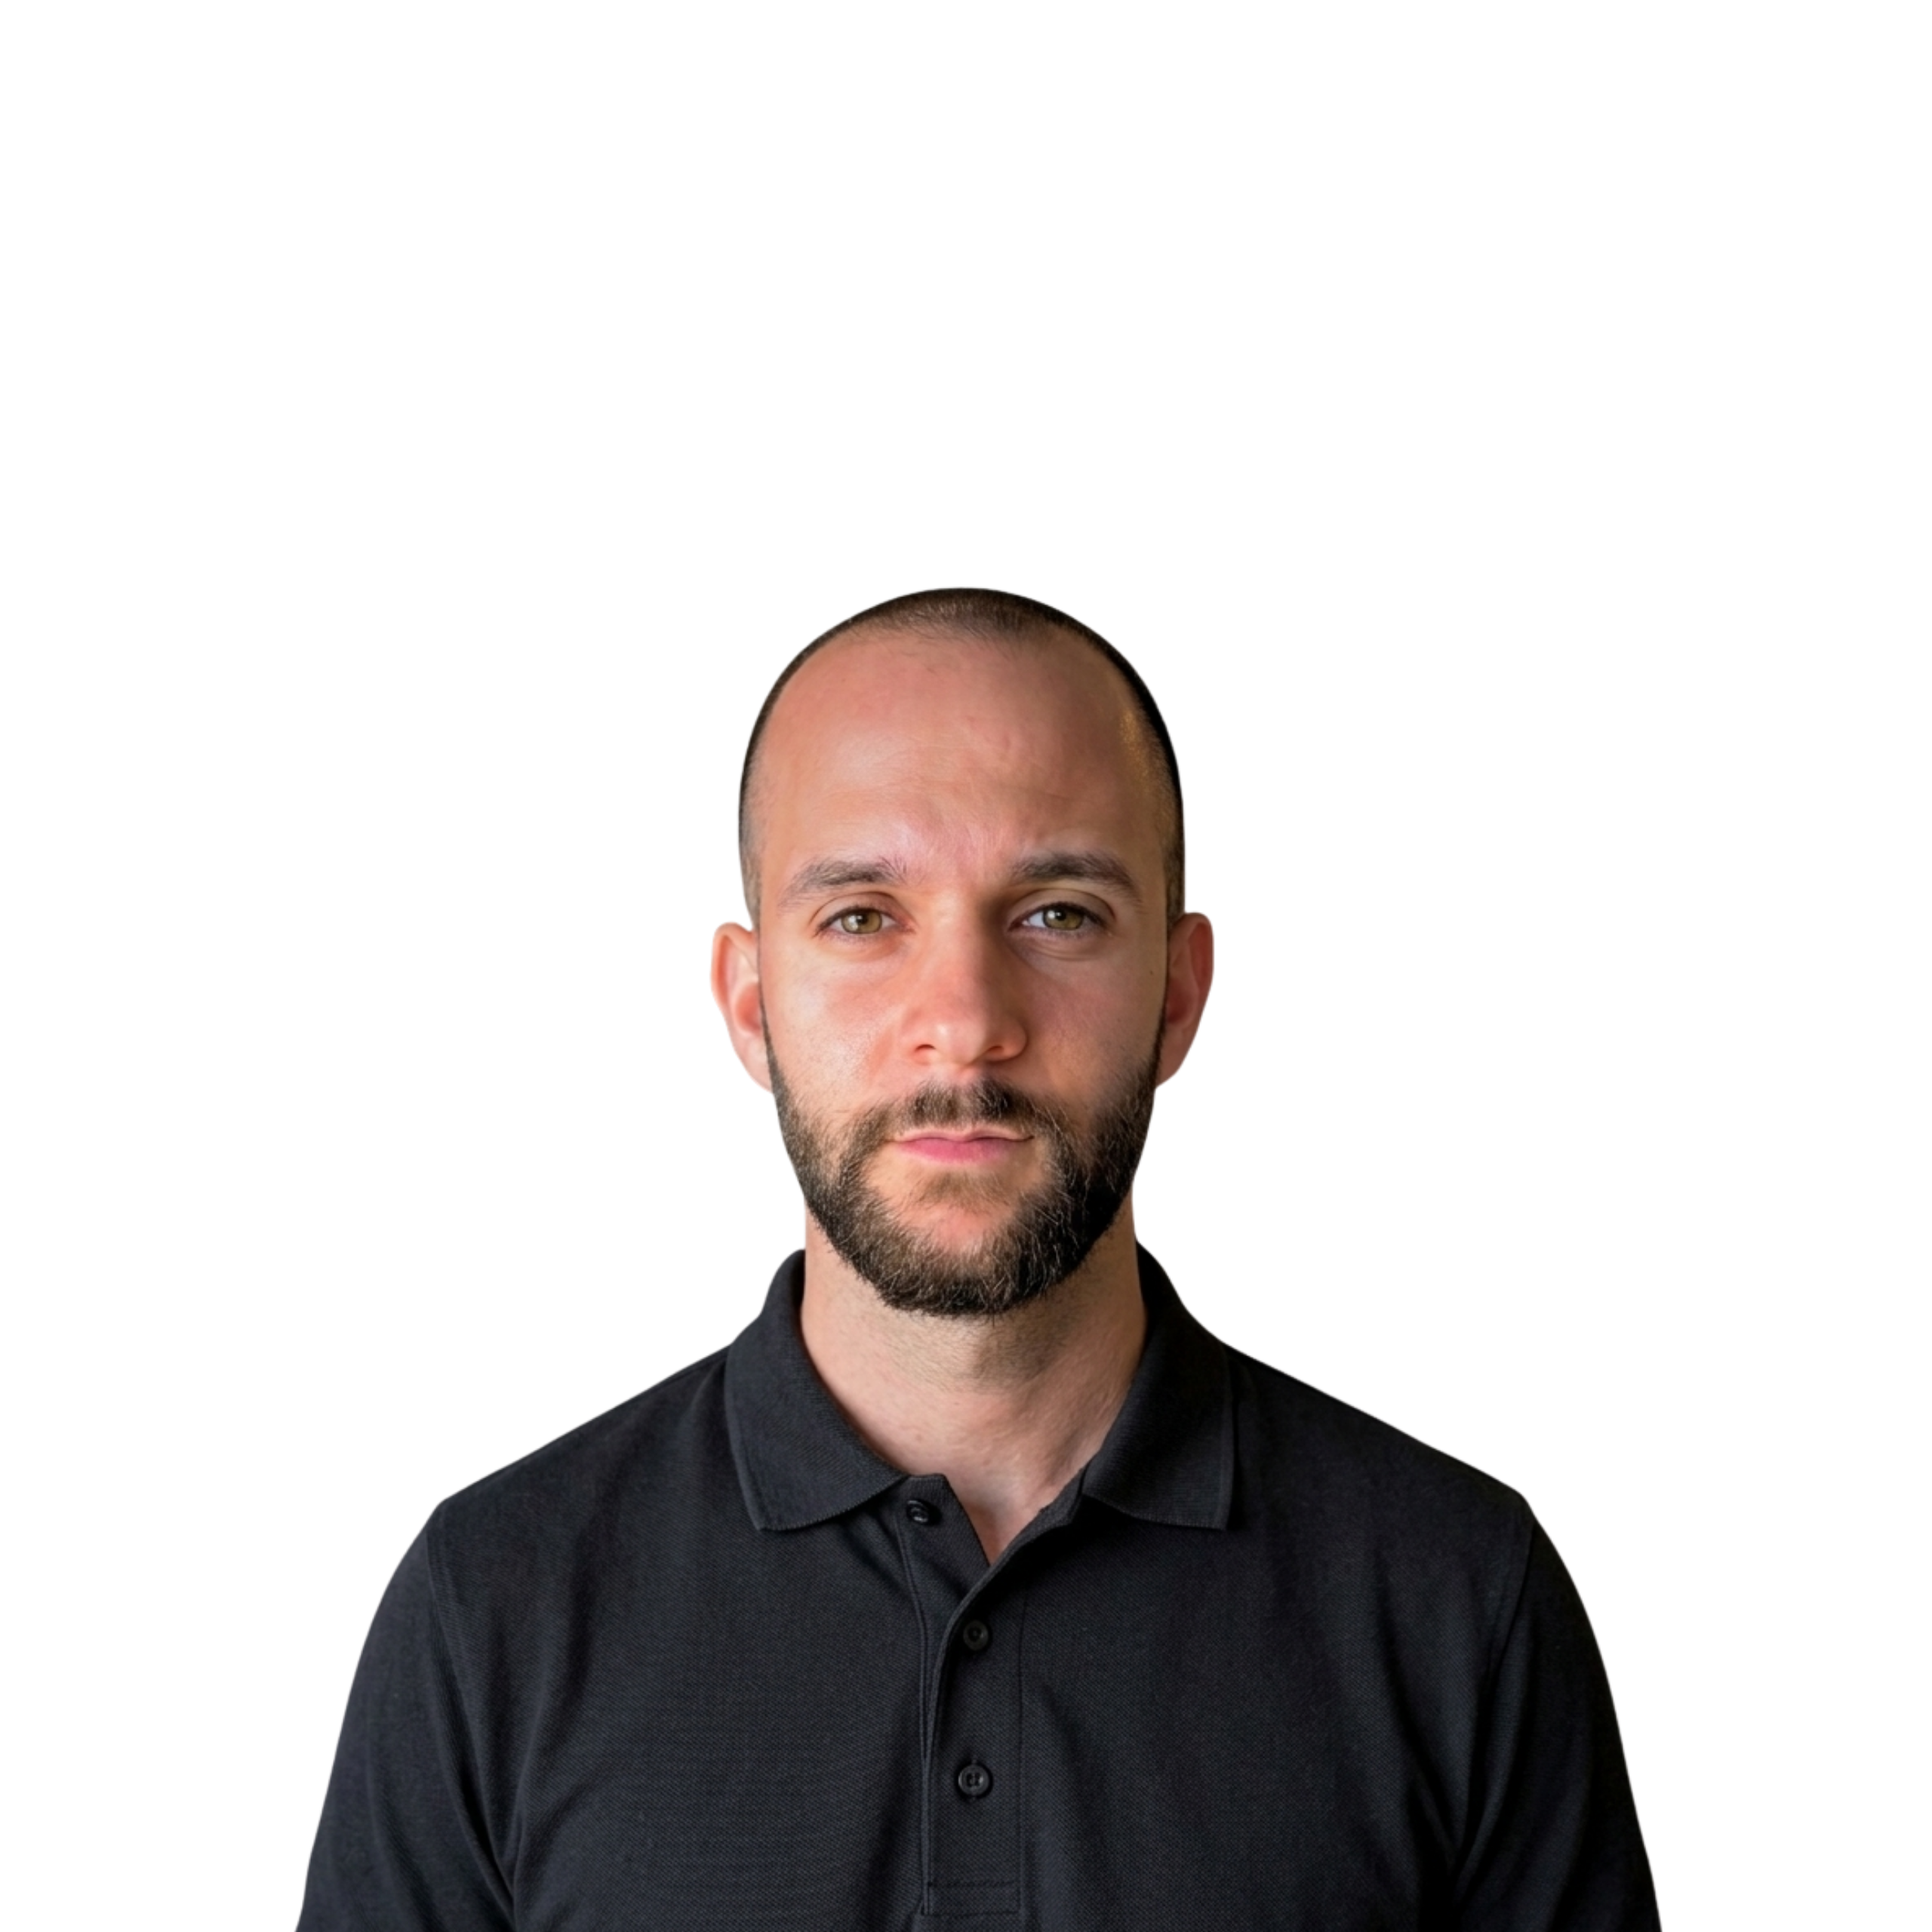
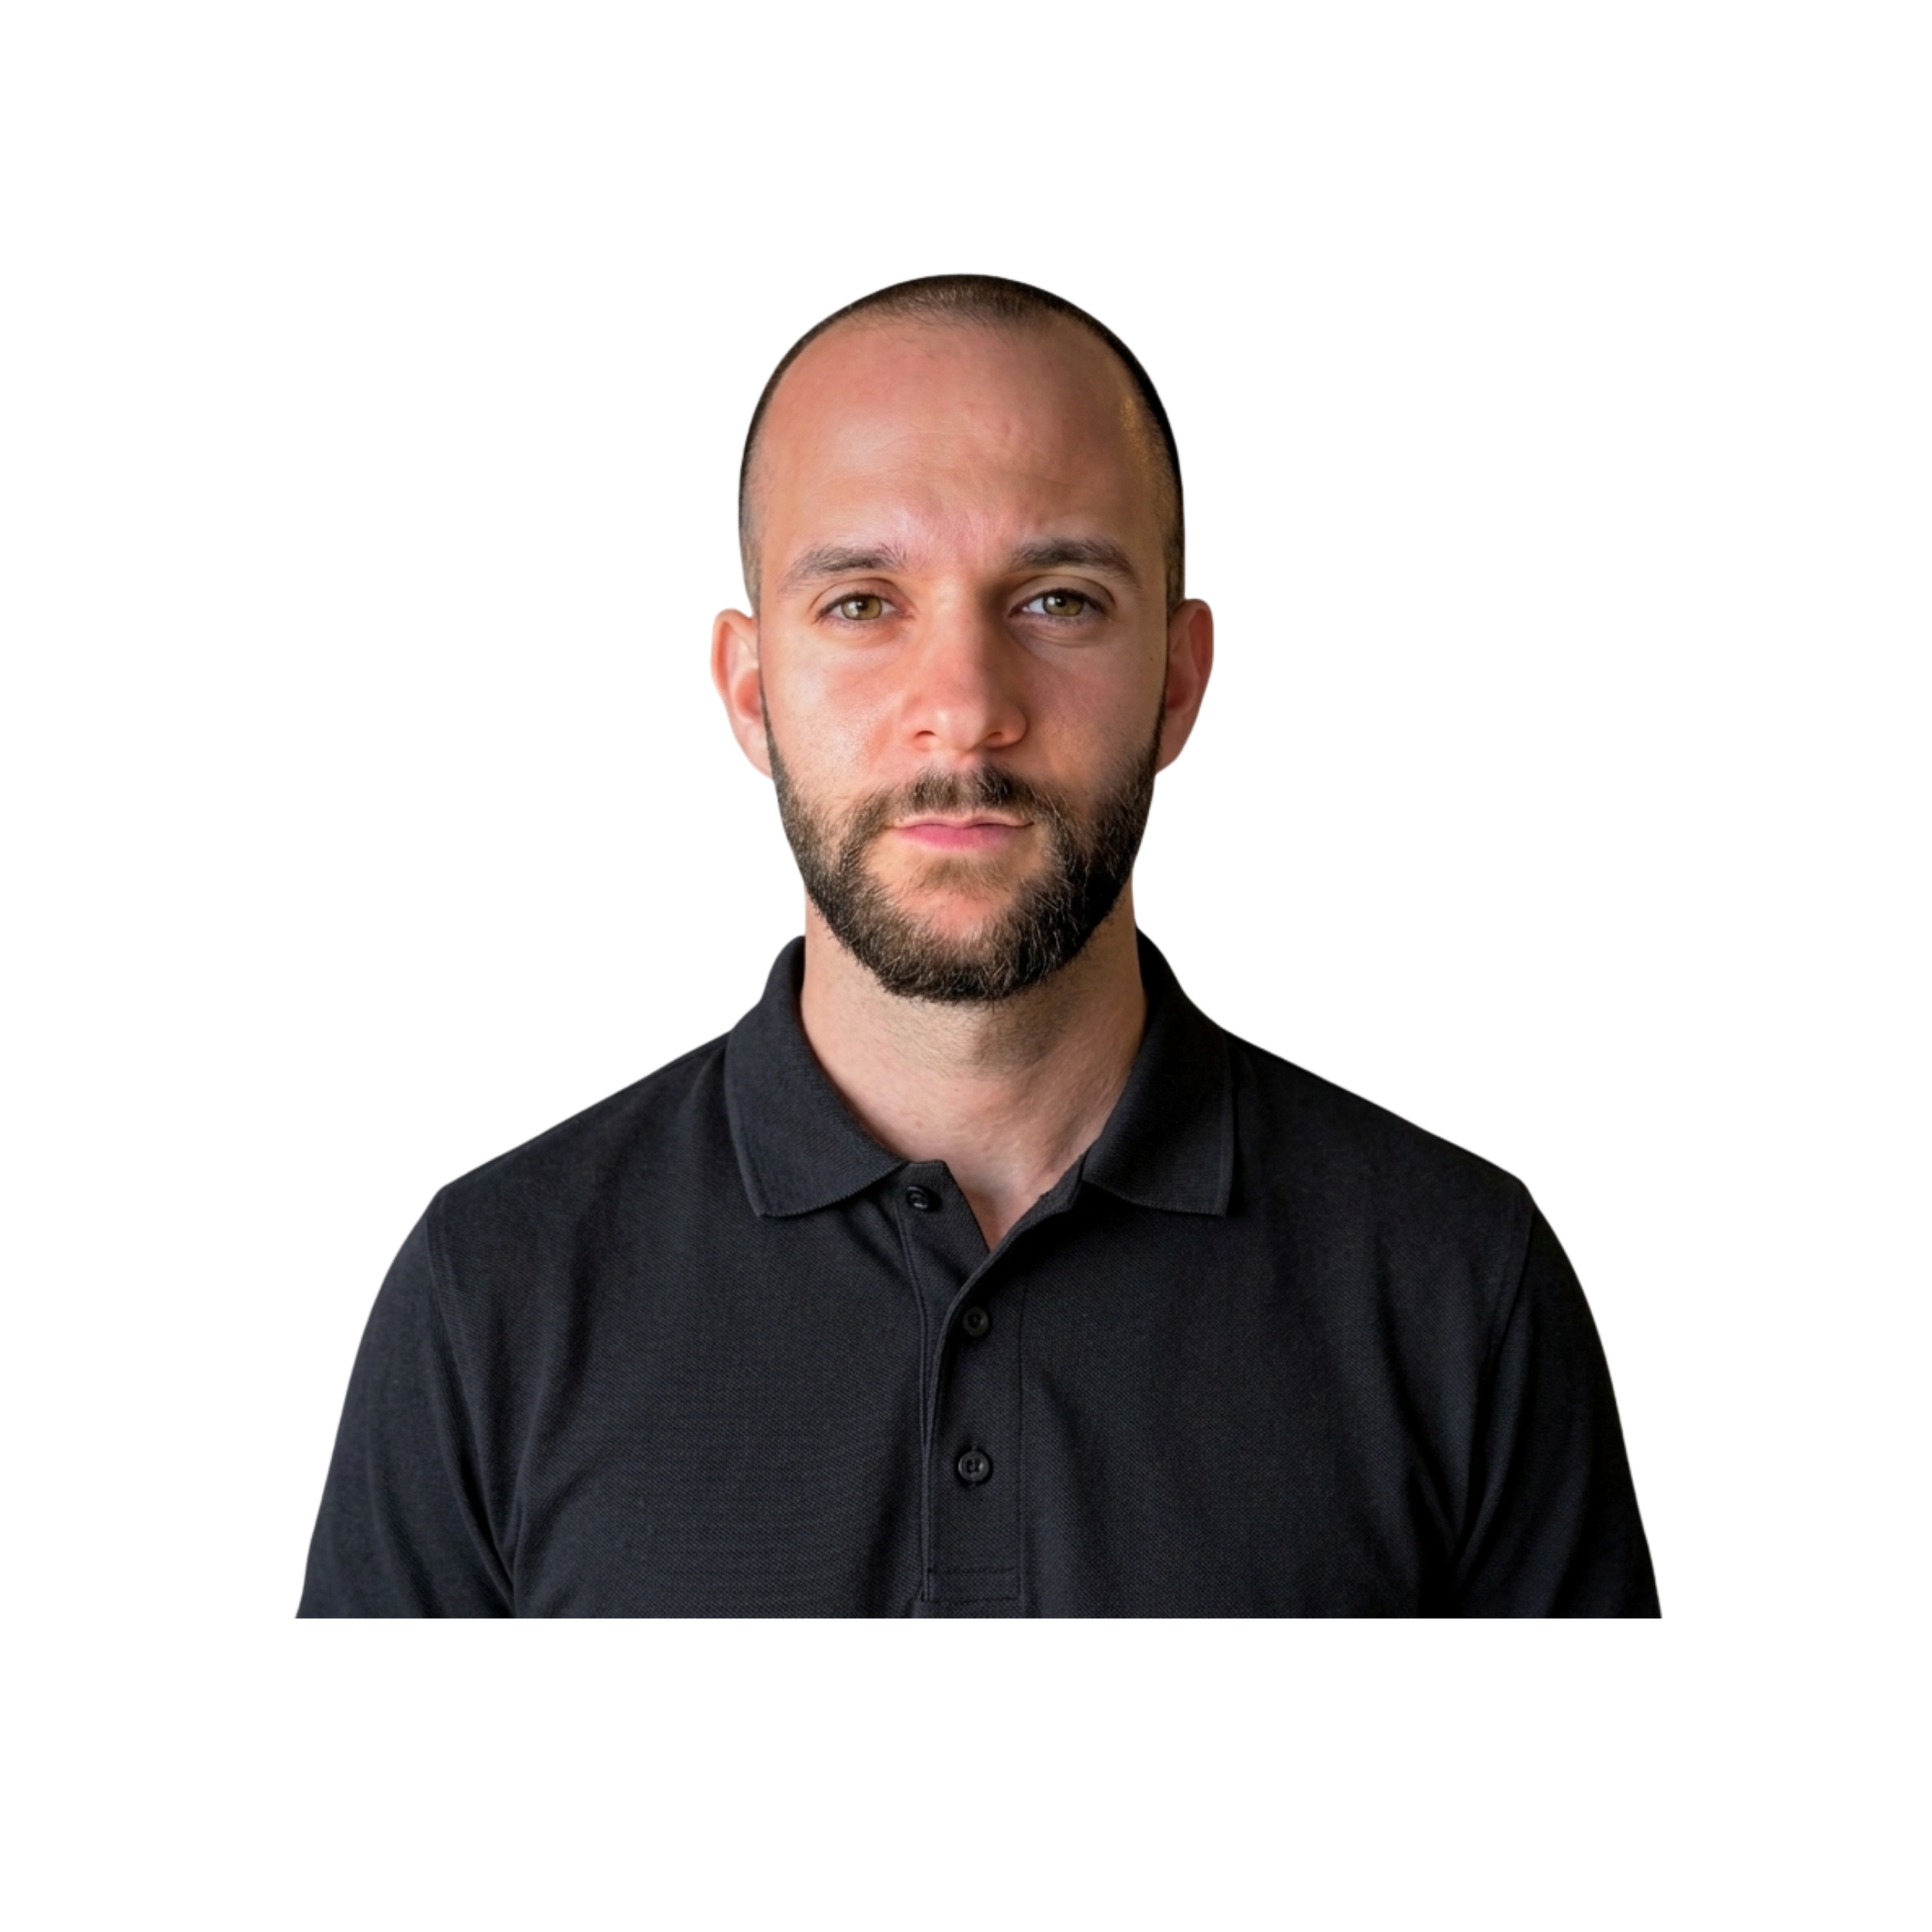
feat: add projects section with alternating layout and project cards

diff --git a/src/styles/cmps/_projects.scss b/src/styles/cmps/_projects.scss
@@ -1,0 +1,175 @@
+// Shared section header — reused across sections
+.section-header {
+  text-align: center;
+  margin-bottom: var(--spacing-3xl);
+}
+
+.section-label {
+  font-size: var(--font-size-sm);
+  font-weight: 600;
+  letter-spacing: 0.12em;
+  text-transform: uppercase;
+  color: var(--color-accent);
+  margin-bottom: 0.75rem;
+}
+
+.section-title {
+  font-size: var(--font-size-2xl);
+  font-weight: 700;
+  letter-spacing: -0.03em;
+  color: var(--color-text);
+
+  &::after {
+    content: '';
+    display: block;
+    width: 2.5rem;
+    height: 2px;
+    background-color: var(--color-accent);
+    margin: 0.875rem auto 0;
+  }
+}
+
+// Projects section
+.projects {
+  padding-top: var(--spacing-3xl);
+  padding-bottom: var(--spacing-3xl);
+  border-top: 1px solid var(--color-border);
+
+  &__list {
+    display: flex;
+    flex-direction: column;
+    gap: var(--spacing-3xl);
+  }
+}
+
+// Individual project row
+.project {
+  display: grid;
+  grid-template-columns: 1fr 1fr;
+  gap: var(--spacing-2xl);
+  align-items: center;
+
+  // Reverse: info left, visual right
+  &--reverse {
+    .project__visual { order: 2; }
+    .project__info   { order: 1; }
+  }
+
+  // Visual side
+  &__visual {
+    border-radius: var(--radius-lg);
+    overflow: hidden;
+    background-color: var(--color-surface);
+    border: 1px solid var(--color-border);
+    aspect-ratio: 16 / 10;
+  }
+
+  &__img {
+    width: 100%;
+    height: 100%;
+    object-fit: cover;
+    display: block;
+    transition: transform 0.4s ease;
+
+    &:hover {
+      transform: scale(1.02);
+    }
+  }
+
+  &__placeholder {
+    width: 100%;
+    height: 100%;
+    display: flex;
+    align-items: center;
+    justify-content: center;
+    background: linear-gradient(
+      135deg,
+      var(--color-surface) 0%,
+      rgba(232, 97, 77, 0.06) 100%
+    );
+    min-height: 14rem;
+  }
+
+  &__placeholder-name {
+    font-size: var(--font-size-2xl);
+    font-weight: 700;
+    letter-spacing: -0.03em;
+    color: var(--color-border);
+    user-select: none;
+  }
+
+  // Info side
+  &__info {
+    display: flex;
+    flex-direction: column;
+    gap: var(--spacing-md);
+    max-width: 480px;
+
+  }
+
+  &__header {
+    display: flex;
+    align-items: center;
+    gap: var(--spacing-sm);
+    flex-wrap: wrap;
+  }
+
+  &__name {
+    font-size: var(--font-size-xl);
+    font-weight: 700;
+    letter-spacing: -0.02em;
+    color: var(--color-text);
+  }
+
+  &__status {
+    font-size: 0.75rem;
+    font-weight: 600;
+    letter-spacing: 0.08em;
+    text-transform: uppercase;
+    color: var(--color-accent);
+    background-color: rgba(232, 97, 77, 0.1);
+    border: 1px solid rgba(232, 97, 77, 0.25);
+    padding: 0.25rem 0.625rem;
+    border-radius: 2rem;
+  }
+
+  &__tech {
+    display: flex;
+    flex-wrap: wrap;
+    gap: 0.5rem;
+  }
+
+  &__tech-tag {
+    font-size: 0.8rem;
+    font-weight: 500;
+    color: var(--color-text-muted);
+    background-color: var(--color-surface);
+    border: 1px solid var(--color-border);
+    padding: 0.25rem 0.75rem;
+    border-radius: 2rem;
+  }
+
+  &__description {
+    font-size: var(--font-size-base);
+    color: var(--color-text-muted);
+    line-height: 1.75;
+  }
+
+  &__links {
+    display: flex;
+    gap: var(--spacing-sm);
+    flex-wrap: wrap;
+    margin-top: var(--spacing-xs);
+  }
+
+  // Responsive
+  @media (max-width: 52rem) {
+    grid-template-columns: 1fr;
+    gap: var(--spacing-lg);
+
+    &--reverse {
+      .project__visual { order: 1; }
+      .project__info   { order: 2; }
+    }
+  }
+}

diff --git a/src/pages/Projects.jsx b/src/pages/Projects.jsx
@@ -1,0 +1,92 @@
+import { projects } from '../data/projects'
+
+function ProjectVisual({ project }) {
+  if (project.image) {
+    return (
+      <img
+        src={project.image}
+        alt={project.name}
+        className="project__img"
+      />
+    )
+  }
+
+  return (
+    <div className="project__placeholder">
+      <span className="project__placeholder-name">{project.name}</span>
+    </div>
+  )
+}
+
+function ProjectCard({ project, reverse }) {
+  return (
+    <article className={`project ${reverse ? 'project--reverse' : ''}`}>
+      <div className="project__visual">
+        <ProjectVisual project={project} />
+      </div>
+
+      <div className="project__info">
+        <div className="project__header">
+          <h3 className="project__name">{project.name}</h3>
+          {project.status && (
+            <span className="project__status">{project.status}</span>
+          )}
+        </div>
+
+        <ul className="project__tech">
+          {project.tech.map((t) => (
+            <li key={t} className="project__tech-tag">{t}</li>
+          ))}
+        </ul>
+
+        <p className="project__description">{project.description}</p>
+
+        <div className="project__links">
+          <a
+            href={project.github}
+            className="btn btn--outline"
+            target="_blank"
+            rel="noreferrer"
+          >
+            GitHub
+          </a>
+          {project.live && (
+            <a
+              href={project.live}
+              className="btn btn--primary"
+              target="_blank"
+              rel="noreferrer"
+            >
+              Live demo
+            </a>
+          )}
+        </div>
+      </div>
+    </article>
+  )
+}
+
+function Projects() {
+  return (
+    <section id="projects" className="projects">
+      <div className="container">
+        <div className="section-header">
+          <p className="section-label">Work</p>
+          <h2 className="section-title">Projects</h2>
+        </div>
+
+        <div className="projects__list">
+          {projects.map((project, index) => (
+            <ProjectCard
+              key={project.id}
+              project={project}
+              reverse={index % 2 === 0}
+            />
+          ))}
+        </div>
+      </div>
+    </section>
+  )
+}
+
+export default Projects

diff --git a/src/data/projects.js b/src/data/projects.js
@@ -1,0 +1,63 @@
+import mindayImg from '../assets/image.png'
+import mistertoyImg from '../assets/mistertoy.png'
+import minesweeperImg from '../assets/test5.png'
+import gmailImg from '../assets/gmail.png'
+import momentumImg from '../assets/momentum.png'
+
+export const projects = [
+  {
+    id: 'minday',
+    name: 'Minday',
+    description:
+      'A Monday.com-inspired work management platform with drag-and-drop boards, real-time updates, and advanced team collaboration features.',
+    tech: ['React', 'Redux', 'Node.js', 'MongoDB', 'Socket.IO'],
+    status: null,
+    github: 'https://github.com/ShohamShtiler/Minday',
+    live: 'https://minday.onrender.com',
+    image: mindayImg,
+  },
+  {
+    id: 'mister-toy',
+    name: 'Mister Toy',
+    description:
+      'Full-stack e-commerce app for managing toys, including CRUD operations, filtering, authentication, and real-time chat.',
+    tech: ['React', 'Node.js', 'MongoDB', 'Socket.IO'],
+    status: null,
+    github: 'https://github.com/ShohamShtiler/Mistertoy',
+    live: 'https://mistertoy-backend-2oeq.onrender.com',
+    image: mistertoyImg,
+  },
+  {
+    id: 'momentum',
+    name: 'Momentum',
+    description:
+      'Modern productivity dashboard for tracking habits, goals, and daily progress with a clean UI and dynamic data visualization.',
+    tech: ['React', 'TypeScript', 'SCSS'],
+    status: 'In Progress',
+    github: 'https://github.com/ShohamShtiler/momentum',
+    live: null,
+    image: momentumImg,
+  },
+  {
+    id: 'appsus',
+    name: 'Appsus',
+    description:
+      'Google-inspired productivity suite combining email and notes apps, showcasing modular architecture and advanced state management.',
+    tech: ['React', 'JavaScript', 'CSS'],
+    status: null,
+    github: 'https://github.com/ShohamShtiler/Appsus',
+    live: 'https://shohamshtiler.github.io/Appsus/',
+    image: gmailImg,
+  },
+  {
+    id: 'minesweeper',
+    name: 'Minesweeper',
+    description:
+      'Classic Minesweeper game with multiple difficulty levels, smart expansion logic, and a polished interactive UI.',
+    tech: ['JavaScript', 'HTML', 'CSS'],
+    status: null,
+    github: 'https://github.com/ShohamShtiler/minesweeper',
+    live: 'https://minesweeper-zzk3.onrender.com',
+    image: minesweeperImg,
+  },
+]

diff --git a/src/App.jsx b/src/App.jsx
@@ -1,6 +1,7 @@
 import Navbar from './cmps/Navbar'
 import Hero from './pages/Hero'
 import SkillsStrip from './pages/SkillsStrip'
+import Projects from './pages/Projects'
 import './App.scss'
 
 import '@fontsource/montserrat/700.css'
@@ -16,6 +17,7 @@ function App() {
       <main>
         <Hero />
         <SkillsStrip />
+        <Projects />
       </main>
     </div>
   )

diff --git a/index.html b/index.html
@@ -2,7 +2,7 @@
 <html lang="en">
   <head>
     <meta charset="UTF-8" />
-    <link rel="icon" type="image/png" href="/public/favicon.png" />
+    <link rel="icon" type="image/png" href="/favicon.png" />
     <meta name="viewport" content="width=device-width, initial-scale=1.0" />
     <title>Shoham Shtiler | Portfolio</title>
   </head>

diff --git a/src/pages/Hero.jsx b/src/pages/Hero.jsx
@@ -1,4 +1,4 @@
-import portraitImg from '../assets/portrait3.png'
+import portraitImg from '../assets/portrait.png'
 
 function Hero() {
   return (

diff --git a/src/styles/main.scss b/src/styles/main.scss
@@ -15,3 +15,4 @@
 @use 'cmps/navbar';
 @use 'cmps/hero';
 @use 'cmps/skills-strip';
+@use 'cmps/projects';
